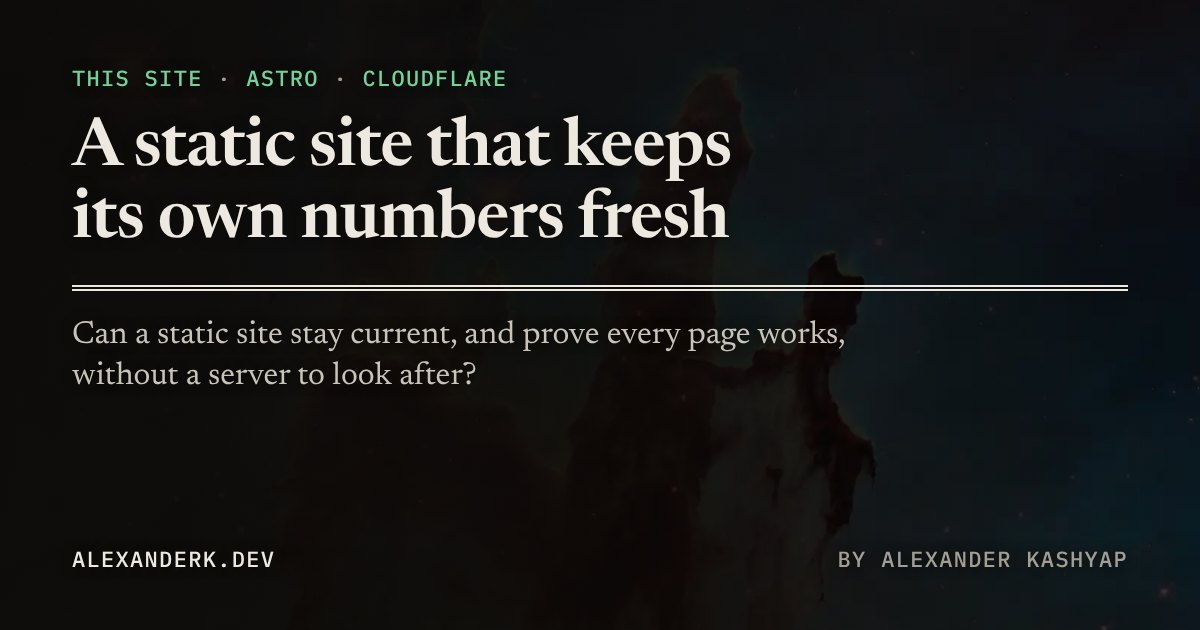
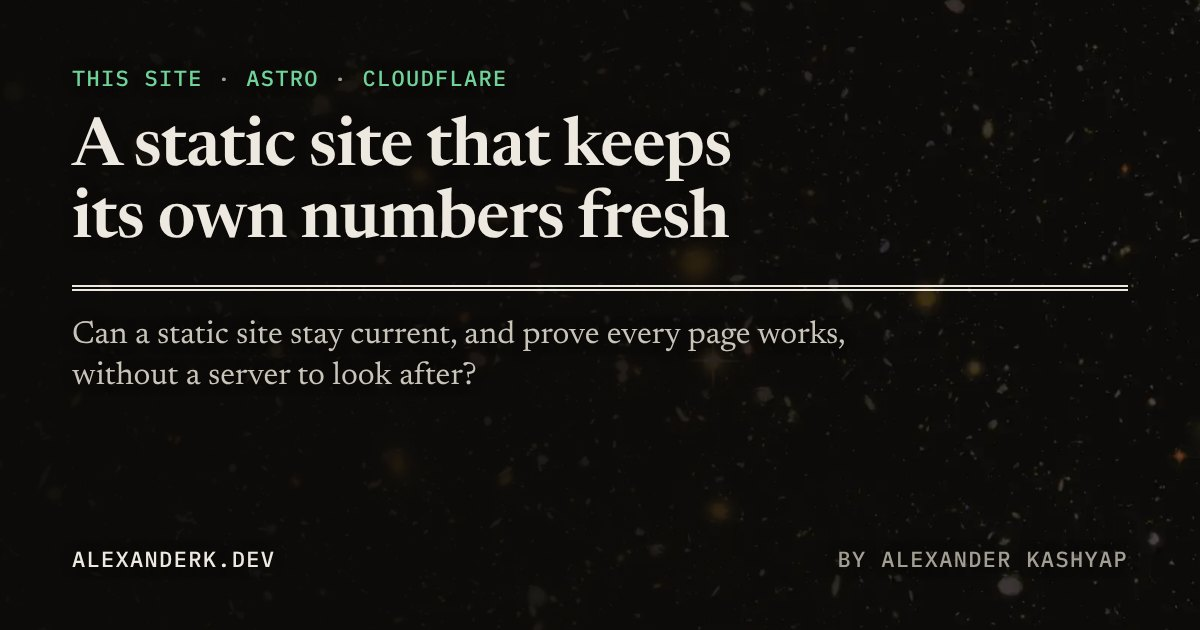
Use Hubble's Ultra Deep Field as the background
Swaps the Pillars of Creation for the Hubble Ultra Deep Field (ESA/Hubble
heic0406a), dimmed in the file like before (960, 1600 and 2400 px webp).
Updates the footer and README credit, the alt text and captions that name
the background, and the "How it's built" write-up. Regenerates the link
preview images and retakes the homepage screenshot used for this site's
picture.

Claude-Session: https://claude.ai/code/session_01EyWja9GQ2vc1y2HRMotNQb

diff --git a/src/styles/site.css b/src/styles/site.css
@@ -181,11 +181,11 @@ main:focus { outline: none; }   /* the skip link moves focus here; no ring neede
 
 
 /* ---------- 4. Sky ---------- */
-/* Hubble's Pillars of Creation, fixed behind every page so the page scrolls over
+/* Hubble's Ultra Deep Field, fixed behind every page so the page scrolls over
    it. It's dimmed ahead of time (in the image itself), so nothing here fades
    it. 100lvh: it stays put when a phone's toolbar slides away. */
 .sky-bg { position: fixed; top: 0; left: 0; z-index: -1; width: 100%; height: 100vh; height: 100lvh; overflow: hidden; pointer-events: none; background: var(--night); }
-.sky-bg img { display: block; width: 100%; height: 100%; max-width: none; object-fit: cover; object-position: 50% 45%; }
+.sky-bg img { display: block; width: 100%; height: 100%; max-width: none; object-fit: cover; object-position: 50% 50%; }
 
 /* A soft dark edge around text, so a bright star behind a line never washes
    it out. Solid panels (charts, maps, code, tables) don't need it. */

diff --git a/README.md b/README.md
@@ -50,7 +50,7 @@ The Worker needs these, set with `wrangler secret put`:
 ## Credits
 
 - Fonts: Newsreader, Libre Franklin and IBM Plex Mono, all open source, served from `public/fonts/`.
-- Background: Hubble's [Pillars of Creation](https://esahubble.org/images/heic1501a/) by NASA, ESA/Hubble and the Hubble Heritage Team ([CC BY 4.0](https://creativecommons.org/licenses/by/4.0/)).
+- Background: the [Hubble Ultra Deep Field](https://esahubble.org/images/heic0406a/) by NASA, ESA, S. Beckwith (STScI) and the HUDF Team ([CC BY 4.0](https://creativecommons.org/licenses/by/4.0/)), dimmed.
 - Technology logos: [Simple Icons](https://simpleicons.org) (CC0).
 - The photos are my own.
 - I used AI to help write the text on this site.
